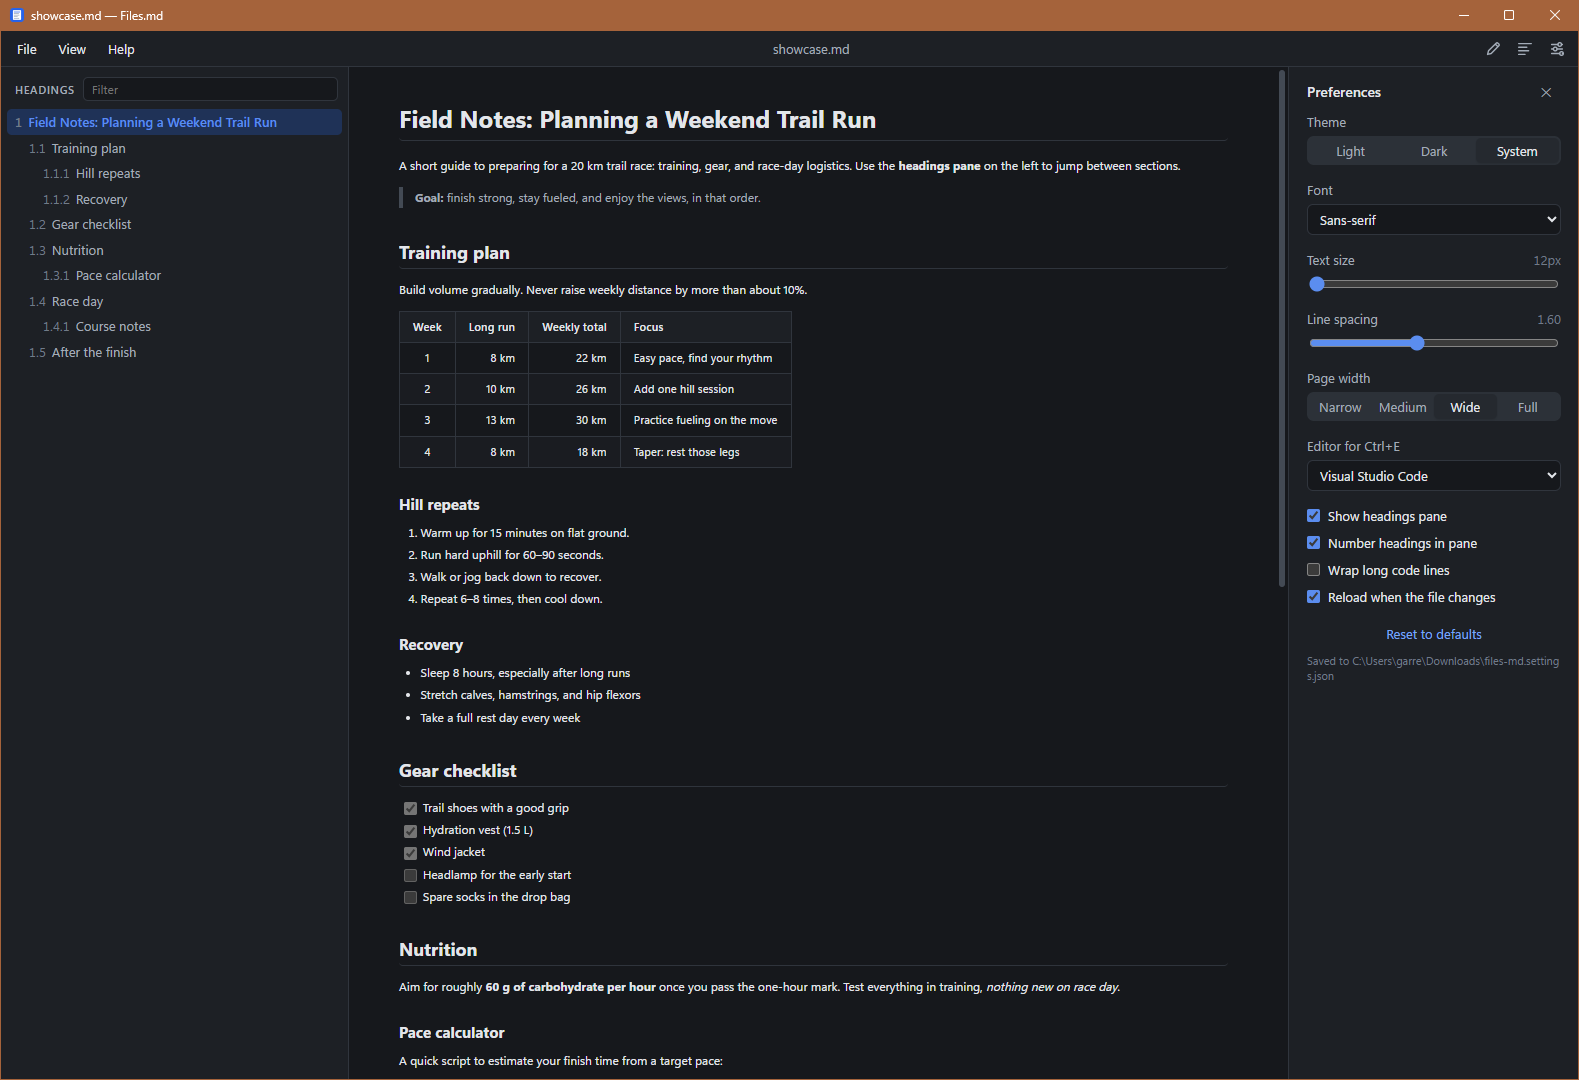
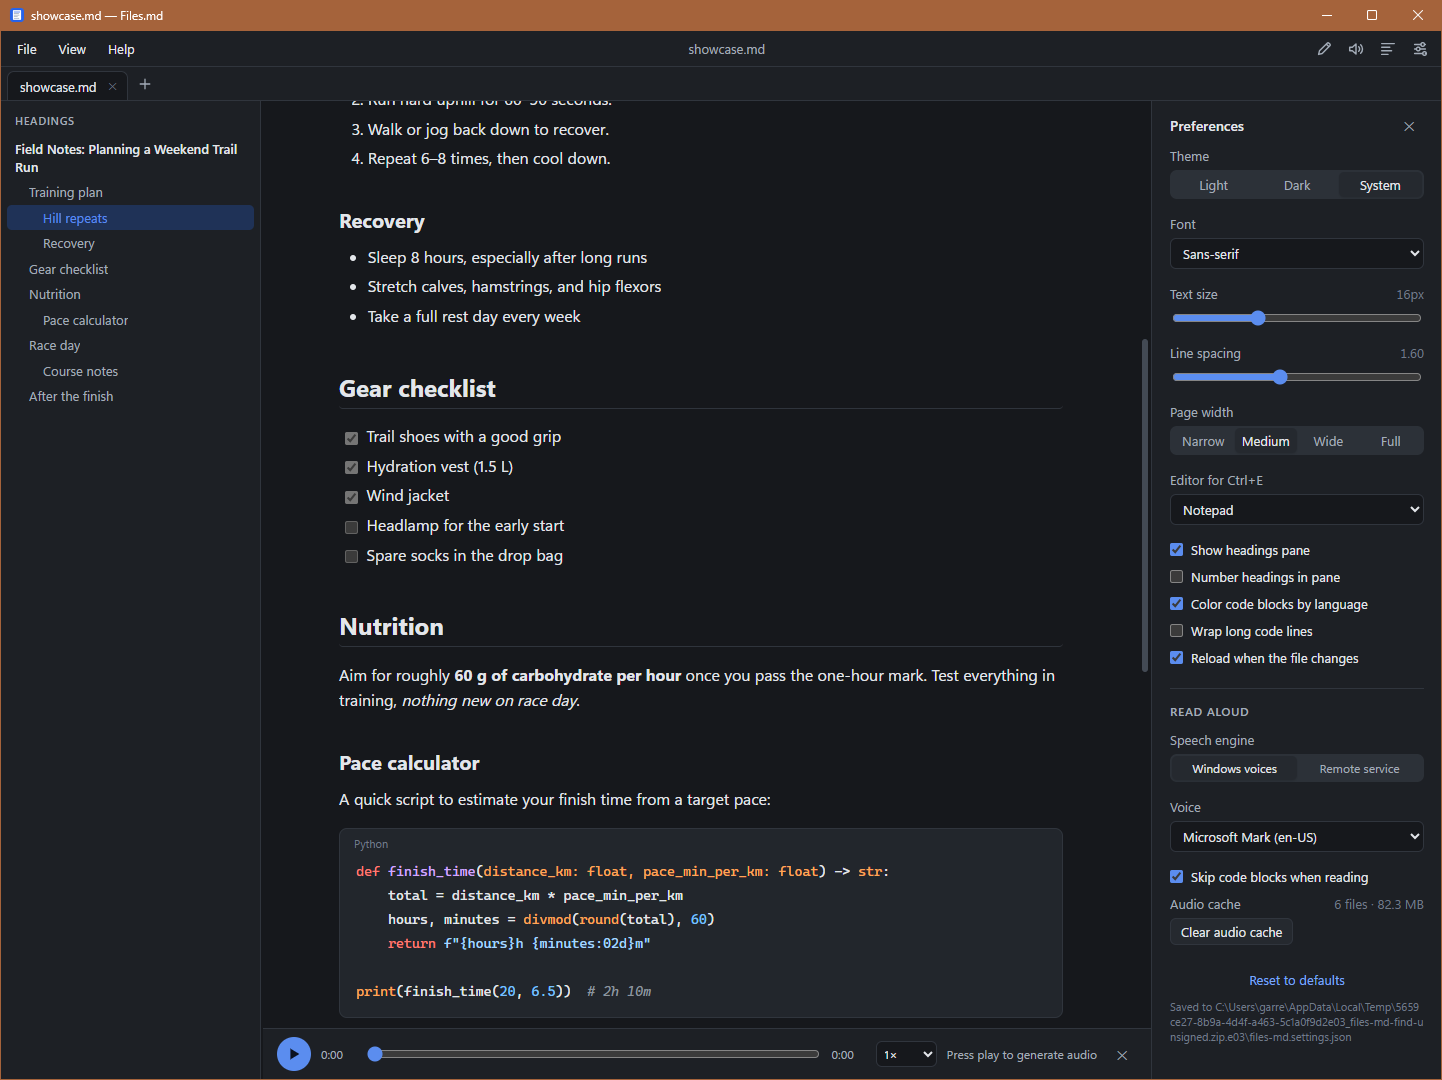
README: new screenshots, grouped shortcut tables
Claude-Session: https://claude.ai/code/session_01JFRQNtJvi4yHSZGjGbPuaY

diff --git a/README.md b/README.md
@@ -5,20 +5,20 @@ A clean, portable Markdown reader for Windows. One `.exe`, no installer.
 <picture>
   <source media="(prefers-color-scheme: dark)" srcset="docs/screenshot-dark.png">
   <source media="(prefers-color-scheme: light)" srcset="docs/screenshot-light.png">
-  <img alt="Files.md showing a document with the headings pane and the Preferences panel" src="docs/screenshot-light.png">
+  <img alt="Files.md showing a document in a tab, with the headings pane, the Preferences panel, and the read-aloud player" src="docs/screenshot-light.png">
 </picture>
 
 - **Readable by default:** light, dark, or match Windows; adjustable font, text size, line spacing, and page width
 - **Headings pane:** jump to any heading, current section highlighted as you scroll
 - **Find in document:** Ctrl+F searches the whole text, with every match highlighted
 - **Opens how you'd expect:** double-click a `.md` file, drag files onto the window, or File → Open
-- **Tabs and windows:** files open as tabs in the running app instead of new copies. Right-click a tab and choose **Move to new window** to give it its own window; settings stay in sync across windows
+- **Tabs and windows:** open several files at once; files opened from Explorer become tabs in the running app instead of new copies. Right-click a tab and choose **Move to new window** to give it its own window; settings stay in sync across windows
 - **Code that's easy to read:** syntax colors for 40+ languages, with a one-click Copy button
 - **Read aloud:** listen to any document using Windows' built-in voices (offline), or an optional remote speech service. Audio is cached, so replaying is instant
 - **Print / Save as PDF:** clean printouts in light colors, without the app's menus and panes
 - **Edit in your editor:** Ctrl+E opens the file in Notepad, VS Code, Notepad++, or any editor you pick
 - **Auto-reload:** re-renders when the file changes on disk, so edits show up as you save
-- **Portable:** settings are saved to `files-md.settings.json` next to the exe
+- **Portable:** settings are saved to `files-md.settings.json` next to the exe (or in your AppData folder if that folder isn't writable)
 
 ## Download
 
@@ -32,6 +32,8 @@ Grab `files-md.exe` from [Releases](https://github.com/garrettds11/files-md/rele
 
 ## Keyboard shortcuts
 
+**Files, tabs, and windows**
+
 | Keys | Action |
 |---|---|
 | `Ctrl+O` | Open file(s) |
@@ -39,14 +41,27 @@ Grab `files-md.exe` from [Releases](https://github.com/garrettds11/files-md/rele
 | `Ctrl+Tab` / `Ctrl+Shift+Tab` | Next / previous tab |
 | `Ctrl+1`…`Ctrl+9` | Go to tab (9 = last) |
 | `Ctrl+N` | New window |
-| `Ctrl+E` | Edit in your editor (Notepad, VS Code, Notepad++, or any .exe — set in Preferences) |
+| `Ctrl`+click a link | Open the linked `.md` file in a new tab |
 | `F5` | Reload |
-| `Ctrl+P` | Print / Save as PDF |
-| `Ctrl+Shift+U` | Read aloud |
-| `Ctrl+B` | Toggle headings pane |
-| `Ctrl+,` | Preferences |
-| `Ctrl+F` | Find in document (`Enter` / `Shift+Enter` for next / previous) |
+
+**Reading**
+
+| Keys | Action |
+|---|---|
+| `Ctrl+F` | Find in document |
+| `Enter` / `Shift+Enter` (or `F3` / `Shift+F3`) | Next / previous match |
+| `Ctrl+B` | Show / hide headings pane |
 | `Ctrl+=` / `Ctrl+-` / `Ctrl+0` | Text size |
+| `Ctrl+Shift+U` | Read aloud (`Space` to play / pause) |
+
+**Tools**
+
+| Keys | Action |
+|---|---|
+| `Ctrl+E` | Edit in your editor (Notepad, VS Code, Notepad++, or any .exe, set in Preferences) |
+| `Ctrl+P` | Print / Save as PDF |
+| `Ctrl+,` | Preferences |
+| `Esc` | Close find, menus, or Preferences |
 
 ## Building
 
